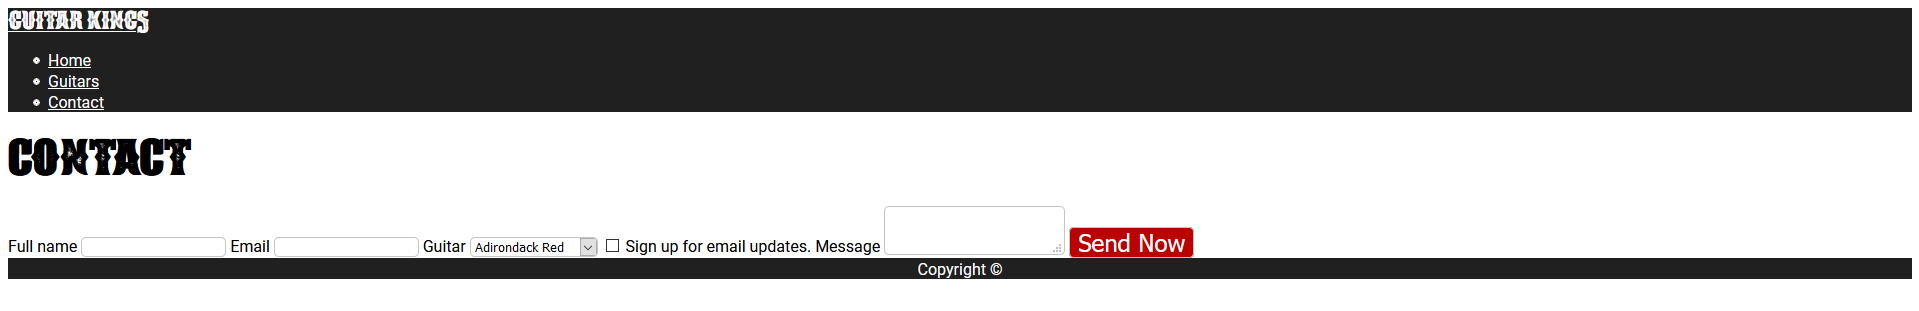
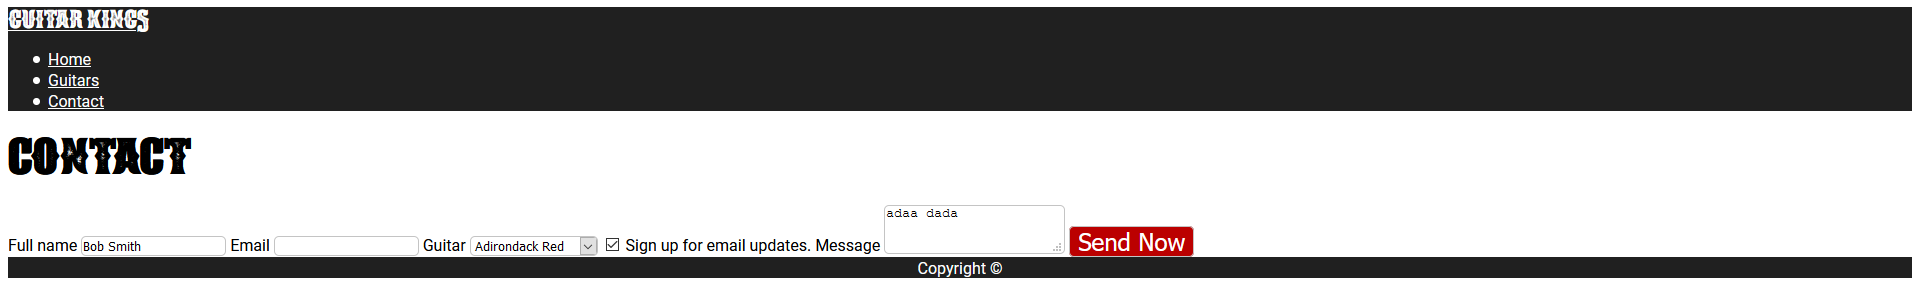
Add files via upload

diff --git a/contact.html b/contact.html
@@ -20,6 +20,23 @@
     </header>
     <main>
       <h1>Contact</h1>
+      <form method="POST">
+        <label for="name">Full name</label>
+        <input type="text" id="name" name="name" />
+        <label for="email">Email</label>
+        <input type="email" id="email" name="Email" />
+        <label for="guitar">Guitar</label>
+        <select id="guitar" name="Guitar">
+          <option value="Adirondack Red">Adirondack Red</option>
+          <option value="Adirondack Blue">Adirondack Blue</option>
+          <option value="Adirondack Green">Adirondack Green</option>
+        </select>
+        <input type="checkbox" id="email-updates" name="email-updates" />
+        <label for="email-updates">Sign up for email updates.</label>
+        <label for="message">Message</label>
+        <textarea id="message" name="message"></textarea>
+        <input type="submit" value="Send Now" class="cta" />
+      </form>
     </main>
     <footer>Copyright &copy;</footer>
   </body>

diff --git a/css/styles.css b/css/styles.css
@@ -66,3 +66,11 @@ footer {
 .review__images {
   border-radius: 50%;
 }
+
+/* Contact page */
+input,
+select,
+textarea {
+  border: 1px solid #c4c4c4;
+  border-radius: 5px;
+}

diff --git a/README.md b/README.md
@@ -8,6 +8,8 @@ In this task we will be adding the contact form to the contact.html page.
 
 Add the various elements shown in the XD prototype to the contact.html page.
 
-By the end of the task, you will have made a contact form that looks like this
+### Video
 
-![Contact form result](assets/html-css_task2-2_result.PNG)
+This video shows you how to complete the lesson task 1.2. Only watch it after attempting the lesson task by yourself.
+
+[View on Vimeo](https://vimeo.com/480269252)
